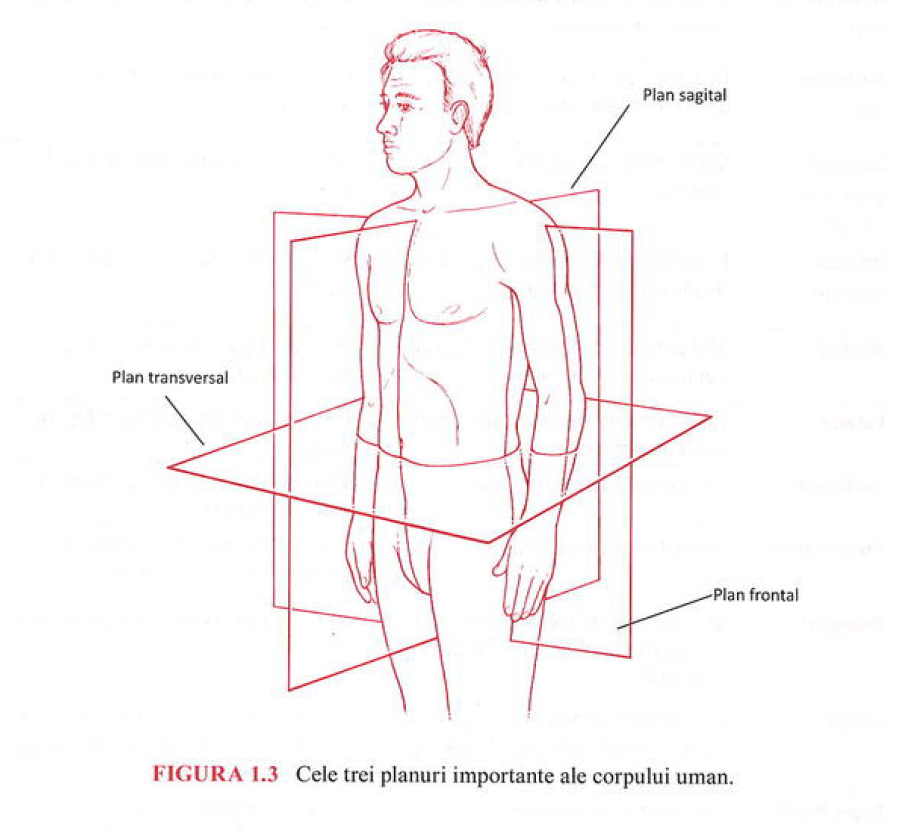
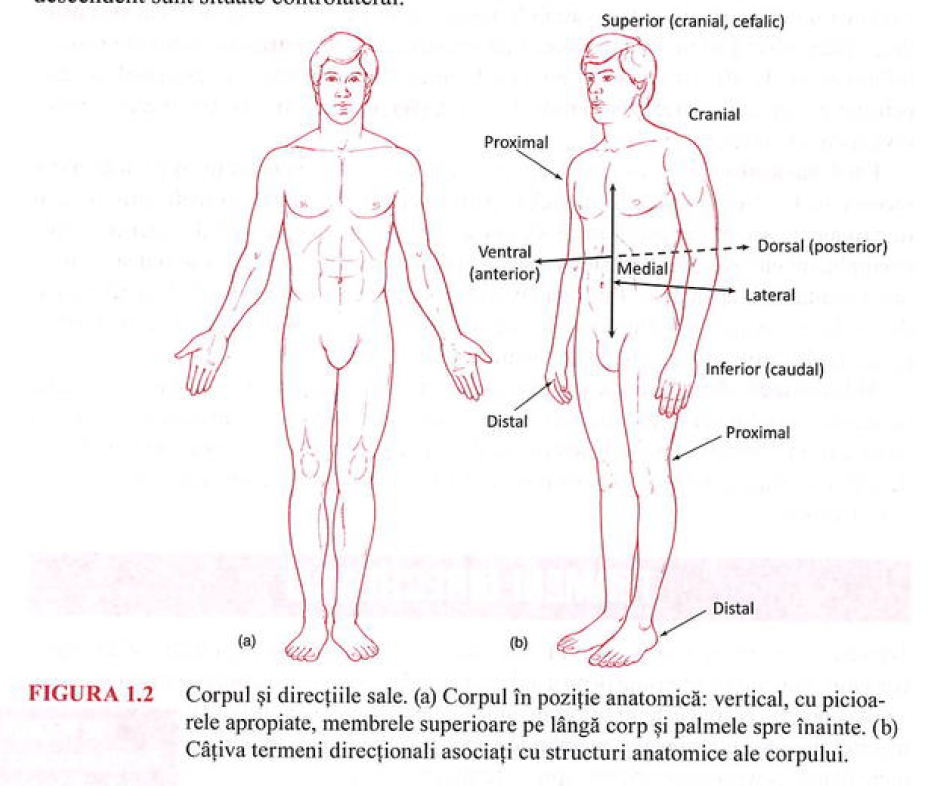
testing delay

diff --git a/script.js b/script.js
@@ -282,7 +282,32 @@ function createChapterItem(chapter) {
 }
 
 // ========================== DELETE ==========================
-function handleDeleteChapter(li, id) {
+async function handleDeleteChapter(li, id) {
+    // Find the chapter to delete
+    const chapter = chapters.find(ch => ch.id === id);
+    if (!chapter) return;
+
+    // Collect all image paths
+    const imagePaths = chapter.questions
+        .map(q => q.imagePath)
+        .filter(Boolean);
+
+    // Send request to delete all images of this chapter
+    if (imagePaths.length > 0) {
+        try {
+            await fetch('/api/delete-images', {
+                method: 'DELETE',
+                headers: { 'Content-Type': 'application/json' },
+                body: JSON.stringify({ paths: imagePaths })
+            });
+
+            imagePaths.forEach(p => delete imageExplanationsMap[p]);
+        } catch (err) {
+            console.error('Failed to delete images:', err);
+        }
+    }
+
+    // Remove chapter locally
     chapters = chapters.filter(ch => ch.id !== id);
     li.remove();
 

diff --git a/server.js b/server.js
@@ -96,6 +96,32 @@ app.delete('/api/delete-image', (req, res) => {
 
 });
 
+app.delete('/api/delete-images', (req, res) => {
+    const paths = req.body.paths;
+    if (!paths || !Array.isArray(paths)) {
+        return res.status(400).json({ error: "Missing or invalid paths array" });
+    }
+
+    const results = [];
+
+    paths.forEach(imagePath => {
+        const fullPath = path.join(process.cwd(), imagePath.replace(/^\/+/, ''));
+        try {
+            if (fs.existsSync(fullPath)) {
+                fs.unlinkSync(fullPath);
+                results.push({ path: imagePath, status: "deleted" });
+            } else {
+                results.push({ path: imagePath, status: "not found" });
+            }
+        } catch (err) {
+            console.error("Failed to delete image:", imagePath, err);
+            results.push({ path: imagePath, status: "error" });
+        }
+    });
+
+    res.json({ results });
+});
+
 app.listen(PORT, () => {
   console.log(`Server running at http://localhost:${PORT}`);
 });
